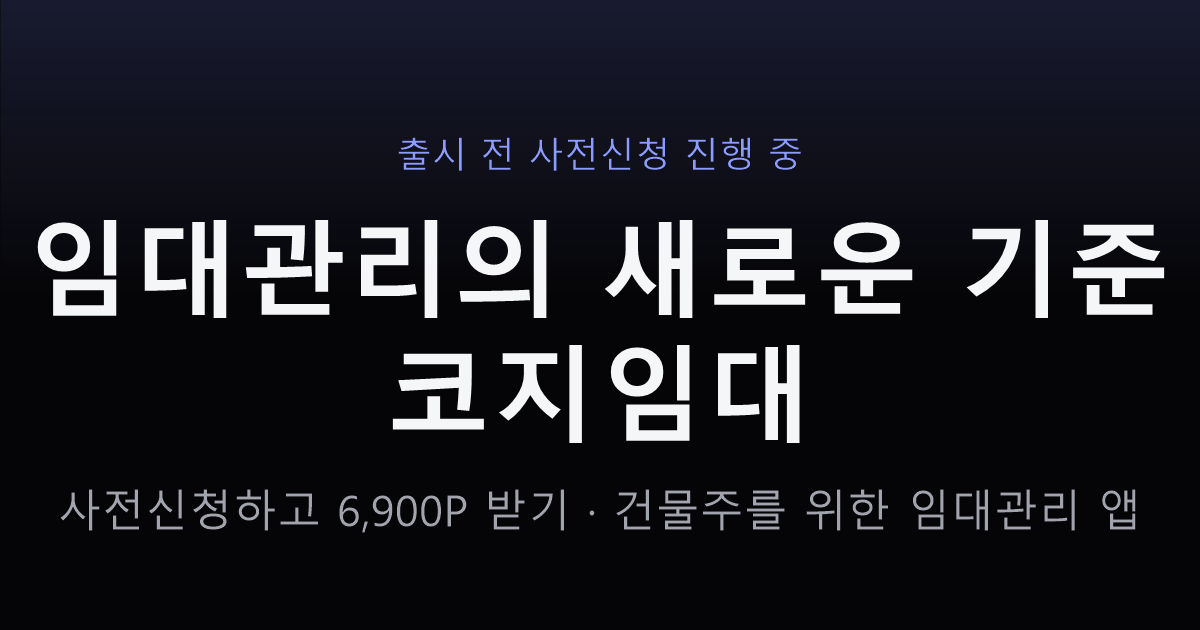
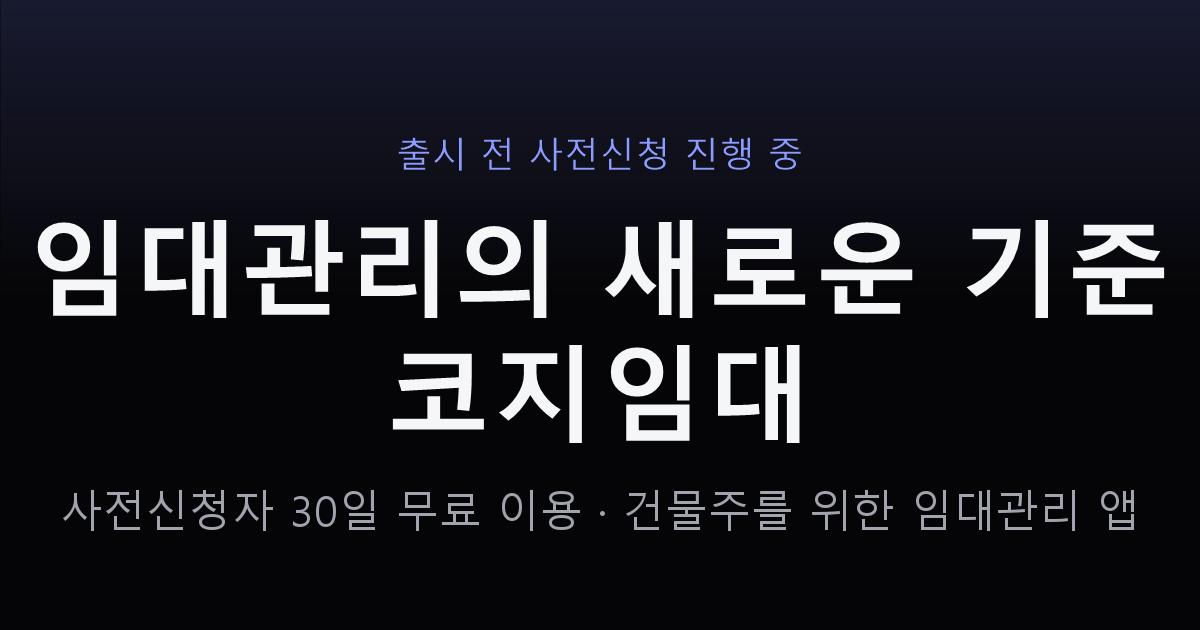
feat(cozyrent): 사전신청 혜택을 6,900P → 사전신청자 30일 무료 이용으로 전환
cozyrent D-184 확정 반영. 랜딩 공개 문구를 두 혜택으로 분리한다.
- 사전신청자 30일 무료 이용 / 일반 신규 가입 7일 무료체험
- 두 기간을 더한 표현(총 37일 등) 금지 · 자동 지급이라고 쓰지 않음

config.ts: 메타 description · 히어로 CTA/sub · 혜택 카드(30일) ·
  FAQ 결제 15일→7일 · "6,900P 사용법" FAQ → "사전신청 혜택 받는 법" ·
  iPhone FAQ 를 cozyrent STATUS 기준으로 정합 · 최종 CTA
  히어로 CTA 는 whitespace-nowrap 이라 320px content box(272px)에 맞는 어순 사용
PreRegisterForm: 완료 화면 · 개인정보 수집 목적
ProgramAdminForm: prereg_benefit placeholder 예시(폐기값 재입력 방지)
og.png: 부제만 새 혜택 문구로 교체(1200×630 · 배경/타이틀/서체/위치 동일)

폼 필드·검증·중복방지·API payload·DB·migration 변경 0.
운영 DB 수정 0 — programs.prereg_benefit 교정은 별도 승인 대상(STATUS OPEN).

Changed region(s): [[0.0308, 0.754, 0.9558, 0.8444]]

diff --git a/lib/landingpage/config.ts b/lib/landingpage/config.ts
@@ -59,7 +59,8 @@ export function landingUrl(slug: string): string {
   return `${LANDING_BASE_URL}/landingpage/${slug}`;
 }
 
-// ── 코지임대 (문구 원본: cozyrent/docs/MARKETING.md §8 · SUBSCRIPTION.md — 금지 표현 준수) ──
+// ── 코지임대 (문구 원본: cozyrent/docs/MARKETING.md §8 · SUBSCRIPTION.md §9.1 — 금지 표현 준수)
+//    혜택 기준: 사전신청자 30일 무료 이용 / 일반 가입 7일 무료체험 (D-184 · 두 기간 합산 표기 금지) ──
 const cozyrent: LandingConfig = {
   slug: "cozyrent",
   productName: "코지임대",
@@ -70,7 +71,7 @@ const cozyrent: LandingConfig = {
   meta: {
     title: "코지임대 사전신청 | 건물주를 위한 임대관리 앱",
     description:
-      "월세, 관리비, 미납, 계약, 수선 기록까지 한곳에서. 코지임대 출시 전 사전신청하고 6,900P 혜택을 받아보세요.",
+      "월세, 관리비, 미납, 계약, 수선 기록까지 한곳에서. 코지임대 출시 전 사전신청하고 30일 무료 이용 혜택을 받아보세요.",
   },
   images: {
     dir: "/image/landingpage/cozyrent",
@@ -97,8 +98,10 @@ const cozyrent: LandingConfig = {
       "월세, 관리비, 미납, 계약, 수선 기록까지",
       "개인 건물주에게 필요한 임대관리를 한곳에서 확인하세요.",
     ],
-    cta: "사전신청하고 6,900P 받기",
-    sub: "출시 전 신청자 한정 · 베이직 이용기간 30일 연장 상당",
+    // 320px 히어로 CTA 는 whitespace-nowrap 이라 컨테이너 content box(272px)를 넘으면 좌우 여백이 깨진다.
+    // "사전신청하고 30일 무료 이용 받기" = 292px(초과) → 같은 뜻으로 272px 에 맞는 어순을 쓴다.
+    cta: "30일 무료 이용 사전신청하기",
+    sub: "사전신청자 한정 · 30일 무료 이용 혜택",
     heroScreenAlt: "코지임대 앱 홈 화면",
   },
   problems: {
@@ -157,17 +160,19 @@ const cozyrent: LandingConfig = {
     ],
   },
   benefit: {
-    title: "출시 전에 신청하면 6,900P",
-    amount: "6,900",
-    amountUnit: "P",
-    subtitle: "베이직 이용기간 30일 연장 상당",
+    title: "출시 전 사전신청자에게 30일 무료 이용",
+    amount: "30",
+    amountUnit: "일",
+    subtitle: "사전신청자 한정 무료 이용 혜택",
+    // 사전신청 혜택 / 일반 가입 체험 / 결제 없음 — 세 가지를 문단으로 분리한다(합산 표기 금지).
     paragraphs: [
-      ["정식 출시 후 코지임대를 구독하면", "사전신청 포인트가 이용기간 연장에 적용됩니다."],
-      ["가입 후에는 카드 등록 없이", "15일 동안 무료로 체험할 수 있습니다."],
+      ["사전신청자에게는 정식 출시 후", "30일 무료 이용 혜택을 적용해드립니다."],
+      ["일반 신규 가입자는", "가입 후 7일 무료체험을 이용할 수 있습니다."],
+      ["두 경우 모두 카드 등록이 없고", "자동결제도 되지 않습니다."],
     ],
     notice: [
-      "포인트는 코지임대 이용기간 연장 전용이며 현금화·양도·환불할 수 없습니다.",
-      "세부 조건은 정식 출시 시 안내됩니다.",
+      "30일 무료 이용과 7일 무료체험은 서로 다른 혜택이며 기간을 합산하지 않습니다.",
+      "적용 방법과 세부 조건은 정식 출시 안내와 함께 알려드립니다.",
     ],
   },
   applySection: { eyebrow: "사전신청", title: "출시 소식을 가장 먼저 받아보세요" },
@@ -178,15 +183,15 @@ const cozyrent: LandingConfig = {
     },
     {
       q: "사전신청하면 결제되나요?",
-      a: "아니요. 사전신청은 무료이며 결제 정보(카드 등록)를 받지 않습니다. 자동결제도 없습니다. 정식 출시 후 가입하면 카드 등록 없이 15일 무료체험을 이용할 수 있습니다.",
+      a: "아니요. 사전신청은 무료이며 결제 정보(카드 등록)를 받지 않습니다. 자동결제도 없습니다. 정식 출시 후 가입하면 카드 등록 없이 7일 무료체험을 이용할 수 있습니다.",
     },
     {
-      q: "6,900P는 어떻게 사용하나요?",
-      a: "정식 출시 후 코지임대를 구독하면 사전신청 포인트가 이용기간 연장에 적용됩니다. 베이직 요금제 기준 30일 연장에 해당합니다. 포인트는 이용기간 연장 전용이며 현금화·양도·환불할 수 없습니다. 세부 적용 조건은 정식 출시 시 안내됩니다.",
+      q: "사전신청 혜택은 어떻게 받나요?",
+      a: "정식 출시 후 가입하신 계정을 확인한 뒤 사전신청자에게 30일 무료 이용 혜택을 적용해드립니다. 적용 방법은 출시 안내와 함께 알려드립니다. 30일 무료 이용은 가입 시 제공되는 7일 무료체험과 다른 혜택이며, 두 기간을 합해서 제공되지는 않습니다.",
     },
     {
       q: "아이폰에서도 사용할 수 있나요?",
-      a: "지금은 Android 앱을 먼저 개발하고 있습니다. iPhone(iOS) 버전은 정식 출시 이후 순차적으로 검토할 예정입니다.",
+      a: "Android 앱 정식 출시를 먼저 준비하고 있습니다. iPhone(iOS) 버전도 함께 개발·검증하고 있으며, iOS 정식 출시 일정은 확정되는 대로 안내해드립니다.",
     },
     {
       q: "누구에게 필요한 앱인가요?",
@@ -195,7 +200,7 @@ const cozyrent: LandingConfig = {
   ],
   finalCta: {
     titleLines: ["기억에 의존하던 임대관리,", "코지임대로 정리해보세요."],
-    descLines: ["출시 전 사전신청하고", "6,900P 혜택을 받아보세요."],
+    descLines: ["출시 전 사전신청하고", "30일 무료 이용 혜택을 받아보세요."],
     button: "코지임대 사전신청",
   },
 };

diff --git a/components/cozyrent/PreRegisterForm.tsx b/components/cozyrent/PreRegisterForm.tsx
@@ -217,7 +217,7 @@ export default function PreRegisterForm() {
       <div className="card border-[--accent]/40 py-12 text-center">
         <p className="text-2xl font-semibold text-foreground">사전신청이 완료되었습니다.</p>
         <p className="mt-4 text-lg leading-relaxed text-[--muted]">
-          코지임대 출시 소식과 6,900P 혜택 적용 방법을
+          코지임대 출시 소식과 30일 무료 이용 혜택 적용 방법을
           <br />
           안내해드리겠습니다.
         </p>
@@ -350,8 +350,9 @@ export default function PreRegisterForm() {
             </span>
             <span className="mt-2 block text-sm leading-relaxed text-[--muted-2]">
               수집 항목: 이름 또는 닉네임, 연락처(휴대전화 또는 이메일), 건물 유형, (선택) 관리
-              호실 수·불편한 업무 · 수집 목적: 코지임대 출시 소식 안내, 사전신청 혜택(6,900P) 적용
-              안내 · 보유 기간: 목적 달성 후 지체 없이 파기하며, 삭제 요청 시 즉시 파기합니다.
+              호실 수·불편한 업무 · 수집 목적: 코지임대 출시 소식 안내, 사전신청자 30일 무료 이용
+              혜택 적용 안내 · 보유 기간: 목적 달성 후 지체 없이 파기하며, 삭제 요청 시 즉시
+              파기합니다.
             </span>
           </span>
         </label>

diff --git a/components/admin/ProgramAdminForm.tsx b/components/admin/ProgramAdminForm.tsx
@@ -166,7 +166,7 @@ export default function ProgramAdminForm({
               key="prereg-benefit"
               name="prereg_benefit"
               defaultValue={initial?.prereg_benefit ?? ""}
-              placeholder="예: 출시 전 신청자 한정 6,900P"
+              placeholder="예: 사전신청자 30일 무료 이용 혜택"
             />
           </FormField>
         </Section>

diff --git a/docs/landing/COZYRENT_PRELAUNCH.md b/docs/landing/COZYRENT_PRELAUNCH.md
@@ -1,7 +1,7 @@
 # 코지임대(CozyRent) 출시 전 사전신청 랜딩페이지
 
 > 코지임대 사전신청 랜딩페이지의 **홈페이지 측 SSOT**.
-> 혜택·포인트 정책의 원본은 `cozyrent/docs/SUBSCRIPTION.md`, 홍보 문구의 원본은 `cozyrent/docs/MARKETING.md` §8이 소유한다.
+> 혜택 정책의 원본은 `cozyrent/docs/SUBSCRIPTION.md` §9.1(`D-184`), 홍보 문구의 원본은 `cozyrent/docs/MARKETING.md` §8이 소유한다.
 > 이 문서는 홈페이지 구현(URL·폼·저장 구조·동의·검증 범위)만 소유한다.
 
 ## 1. 목적
@@ -21,9 +21,11 @@
 ## 3. 확정 문구·정책 (요약 — 원본은 cozyrent 문서)
 
 - 제품: 코지임대 — 원룸·다가구·상가주택 개인 임대인을 위한 임대·건물관리 앱. Android 우선 개발 중. **정식 출시 전.**
-- 혜택: 출시 전 사전신청자 **6,900P**(베이직 이용기간 30일 연장 상당) + 출시 후 가입 시 **15일 무료체험**(카드 등록 없음·자동결제 없음).
-- 포인트: 이용기간 연장 전용 · 현금화·양도·환불 불가 · 세부 조건은 정식 출시 시 안내.
-- 금지 표현: 첫 달 무료 / 자동결제 / 구독료 자동 차감 / 현금처럼 사용 / 세금 자동신고 / 세무·법률 대행 / 수익 보장 / 이미 출시된 것처럼 보이는 표현.
+- 혜택: 출시 전 **사전신청자 30일 무료 이용** + 일반 신규 가입 시 **7일 무료체험**(둘 다 카드 등록 없음·자동결제 없음).
+  - **서로 다른 혜택이며 기간을 합산하지 않는다** — 무료 이용은 지급 즉시 기간이 시작되고 이미 시작된 체험 시계를 멈추지 않는다(`cozyrent` `D-156`·`D-184`).
+  - 적용은 **정식 출시 후 가입 계정 확인 뒤 운영자가 적용**한다. 랜딩에서 **자동 지급이라고 쓰지 않는다.**
+- 적용 조건·회수 규칙 등 정책 상세는 `cozyrent/docs/SUBSCRIPTION.md` §9.1이 소유. 세부 조건은 정식 출시 시 안내.
+- 금지 표현: 첫 달 무료 / 자동결제 / 구독료 자동 차감 / 현금처럼 사용 / 세금 자동신고 / 세무·법률 대행 / 수익 보장 / 이미 출시된 것처럼 보이는 표현 / **사전신청 `6,900P`(폐기)** / **`총 37일`·`7일 + 추가 30일` 같은 합산 표현**.
 
 ## 4. 사전신청 폼 필드
 
@@ -60,7 +62,7 @@
 - 폼에 동의 체크박스 + 동의문 전문 표시(접기 없이 항상 노출).
 - 동의문 명시 항목:
   - 수집 항목: 이름 또는 닉네임, 연락처(휴대전화 또는 이메일), 건물 유형, (선택) 관리 호실 수·불편 업무.
-  - 수집 목적: 코지임대 출시 소식 안내, 사전신청 혜택(6,900P) 적용 안내.
+  - 수집 목적: 코지임대 출시 소식 안내, 사전신청자 30일 무료 이용 혜택 적용 안내.
   - 보유 기간: 목적 달성(출시 안내·혜택 적용) 후 지체 없이 파기, 삭제 요청 시 즉시 파기.
 - 동의 미체크 시 제출 차단(클라이언트 + 서버 이중 검증).
 - 서버는 연락처 원문을 로그에 출력하지 않는다.
@@ -75,7 +77,7 @@
 
 ## 9. 페이지 구성·UX
 
-- 섹션: 상단 바(코지임대 텍스트 로고 + 사전신청 버튼) → 히어로(앱 화면 슬롯) → 문제 공감 → 주요 기능(5) → 제작 신뢰 → 혜택(6,900P) → 사전신청 폼 → FAQ(5) → 마지막 CTA → 하단(전역 Footer 재사용: 사업자 정보·개인정보처리방침·홈페이지 연결).
+- 섹션: 상단 바(코지임대 텍스트 로고 + 사전신청 버튼) → 히어로(앱 화면 슬롯) → 문제 공감 → 주요 기능(5) → 제작 신뢰 → 혜택(30일 무료 이용) → 사전신청 폼 → FAQ(5) → 마지막 CTA → 하단(전역 Footer 재사용: 사업자 정보·개인정보처리방침·홈페이지 연결).
 - `/cozyrent`에서는 전역 Header를 숨기고 랜딩 전용 상단 바를 사용한다(광고 착지 집중 — Footer는 전역 재사용).
 - 모바일 우선 · CTA 최소 높이 52px · 모바일 하단 고정 CTA(폼 보이면 자동 숨김) · 부드러운 스크롤 이동 · 인라인 오류 표시 · 제출 중 중복 클릭 방지 · 성공/중복/실패 상태 구분 표시 · 50~70대 가독성(큰 글자·높은 대비).
 - **실앱 이미지 슬롯**: 가짜 UI를 만들지 않는다. `public/image/landingpage/cozyrent/` 아래 교체용 슬롯 경로만 준비하고, 자산이 없으면 세로형(9:19) placeholder 표시. 기능 카드의 앱 화면은 카드 상단 중앙 세로형(9:19) 규격 5개 동일.
@@ -86,7 +88,7 @@
 ## 10. SEO·공유
 
 - title: `코지임대 사전신청 | 건물주를 위한 임대관리 앱` (absolute — 사이트 템플릿 미적용)
-- description: `월세, 관리비, 미납, 계약, 수선 기록까지 한곳에서. 코지임대 출시 전 사전신청하고 6,900P 혜택을 받아보세요.`
+- description: `월세, 관리비, 미납, 계약, 수선 기록까지 한곳에서. 코지임대 출시 전 사전신청하고 30일 무료 이용 혜택을 받아보세요.`
 - canonical: `https://cozybuilder.co.kr/landingpage/cozyrent` (공식 URL — OG url 동일)
 - Open Graph + Twitter card 설정. robots/index는 기존 홈페이지 기준(별도 차단 없음 = 색인 허용) 준수.
 
